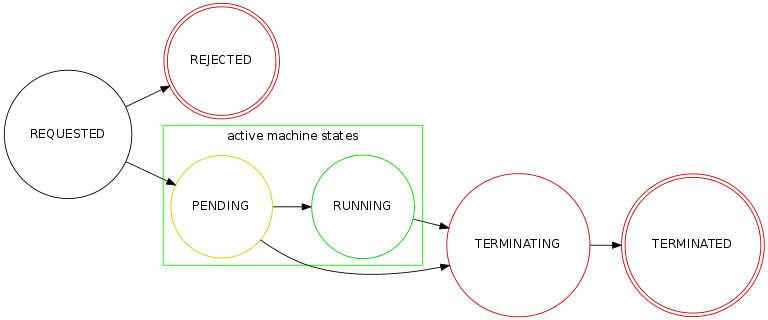
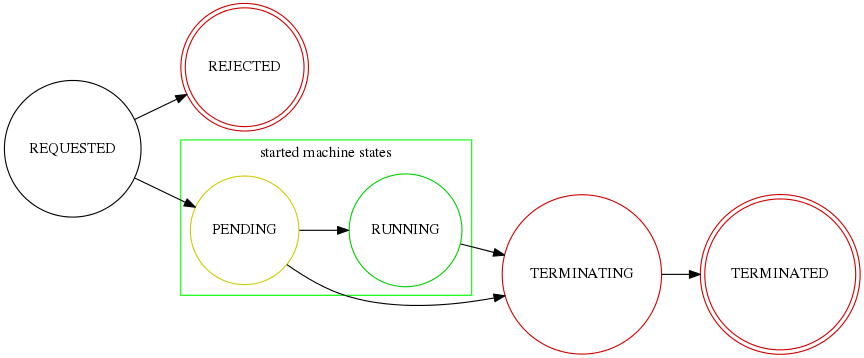
updated to version 3.0.0 of api

diff --git a/docs/conf.py b/docs/conf.py
@@ -51,9 +51,9 @@ copyright = u'2014, Elastisys AB'
 # built documents.
 #
 # The short X.Y version.
-version = '2.0.0'
+version = '3.0.0'
 # The full version, including alpha/beta/rc tags.
-release = '2.0.0'
+release = '3.0.0'
 
 # The language for content autogenerated by Sphinx. Refer to documentation
 # for a list of supported languages.

diff --git a/docs/api.rst b/docs/api.rst
@@ -33,6 +33,10 @@ The logical group of machines that a cloud pool manages is referred to
 as its **machine pool**.
 
 
+.. _machine_state:
+
+machine state
+*************
 A cloud pool needs to be able to report the execution state of its machine 
 pool members in a cloud-neutral manner (see :ref:`get_machine_pool`). 
 Since cloud providers differ quite a lot in the state models they use, the 
@@ -66,29 +70,87 @@ The diagram below illustrates the state transitions that describe the lifecycle 
 a machine.
 
 .. image:: images/machinestates.png
-  :width: 700px
+  :width: 800px
 
-The ``PENDING`` and ``RUNNING`` states are said to be the *active machine 
-states*. Machines in an active state are executing. However, just because a machine 
-is active doesn't necessarily mean that it is doing useful work. For example, it may
+The ``PENDING`` and ``RUNNING`` states are said to be the *started machine 
+states*. Machines in a started state are executing. However, just because a machine 
+is executing doesn't necessarily mean that it is doing useful work. For example, it may
 have failed to properly boot, it may have crashed or encountered a fatal bug.
 
+So the machine state is the execution state of the machine, as reported by the cloud
+API, which really only tells us if a particular pool member is started or not.
+To be able to reason about the *health* of a pool member, each machine's metadata 
+carries two additional state fields -- the :ref:`membership_status` and the :ref:`service_state`.
+These states are intended to be set by external means, such as by a human operator
+or an external health monitoring service. A cloud pool is required to be ready to receive 
+state updates these fields (see :ref:`set_membership_status` and :ref:`set_service_state`)
+for the machines its pool and to include those states on subsequent queries about 
+the pool members (:ref:`get_machine_pool`).
+
+
+.. _membership_status:
+
+membership status
+*****************
+The **membership status** is used to indicate to the cloud pool that a certain
+machine needs to be given special treatment. The membership status can, for 
+example, be set to protect a machine from being terminated (by setting its 
+evictability) or to mark a machine as being in need of replacement (by setting 
+its activity flag). This allows us, for example, to isolate a failed machine for 
+further inspection and to provision a replacement to sustain sufficient capacity.
+It also allows us to have "blessed"/"seed" pool members that may not be 
+terminated. See the :ref:`set_membership_status` method for more deatils.
+
+The ``active`` and ``evictable`` fields of the membership status can be combined
+according to the table below to produce four main membership states:
+
+
++-------------------+------------+------------------+ 
+|                   | **active** | **not active**   |
++===================+============+==================+ 
+| **evictable**     | default    | disposable       | 
++-------------------+------------+------------------+ 
+| **not evictable** | blessed    | awaiting service | 
++-------------------+------------+------------------+ 
+
+
+
+  - ``default``: a machine that is both an active and evictable group member.
+
+  - ``blessed``: a machine that is a permanent pool member that cannot be 
+    evicted. This can, for example, be used to include `reserved machine 
+    instances <http://aws.amazon.com/ec2/purchasing-options/reserved-instances/>`_
+    in the pool.
+
+  - ``awaiting service``: a machine that is in need of service. The machine
+    is to be replaced and should be kept alive for troubleshooting.
+
+  - ``disposable``: a machine that is non-functioning and should be replaced 
+    and terminated.
+
+
+At any time, the *active size* of the cloud pool should be interpreted as the
+number of allocated machines that have not been marked with an inactive membership 
+status. That is, all machines in one of the machine states ``REQUESTED``, ``PENDING``, 
+or ``RUNNING`` and *not* having a membership status with ``active`` set to ``false``.
+
+
+
+
+.. _service_state:
+
+service state
+*************
 There are cases where we need to be able to reason about the operational state of
 the service running on the machine. For example, we may not want to register a running
-machine to a load balancer until it is fully initialized and ready to accept requests.
-To this end, a cloud pool may include a :ref:`service state <service_state_table>` 
-for a machine. Whereas the `machine state` should be viewed  as the execution 
-state of the machine as reported by the cloud API, the **service state** of a machine
-is the operational health of the service running on the machine.
-
-A cloud pool does not need to monitor the service state (health) of its machines,
-although it could. However, a cloud pool is required to be ready to receive 
-service state updates (see :ref:`set_service_state`) for the machines in its pool 
-and to include those states on subsequent queries about the pool members 
-(:ref:`get_machine_pool`). A human operator or an external monitoring service should 
-be able to set the service state for a certain machine. In case no service state
-has been reported for a machine, the cloud pool should report the machine as being
-in a service state of ``UNKNOWN``.
+machine to a load balancer until it is fully initialized and ready to accept requests, and
+we may want to unregister unhealthy machines. To this end, a cloud pool may include 
+a **service state** for a machine. Whereas the *machine state*
+should be viewed  as the execution state of the *machine*, 
+the *service state* should be viewed as the operational health of the 
+*service running on the machine*. Service states have no semantic implications to the
+cloud pool. They should be regarded as informational "marker states" that may be used
+by third party services (such as a load balancer).
 
 The range of permissible service states are as follows:
 
@@ -104,31 +166,14 @@ The range of permissible service states are as follows:
 +---------------------+---------------------------------------------------------------------+
 | ``UNHEALTHY``       | The service is not functioning properly (health checks fail).       |
 +---------------------+---------------------------------------------------------------------+
-| ``OUT_OF_SERVICE``  | The service is unhealthy and is in need of repair. It should be     |
-|                     | considered out of service and not able to accept work until it      |
-|                     | has recovered. When this service state is set for a machine, a      |  
-|                     | replacement instance will be launched, as the machine is no         |
-|                     | longer considered part of the active machine pool (even if it is    |
-|                     | in machine state ``RUNNING``).                                      |
+| ``OUT_OF_SERVICE``  | The service is unhealthy and has been taken out of service for      |
+|                     | troubleshooting and/or repair.                                      |
 +---------------------+---------------------------------------------------------------------+
 | ``UNKNOWN``         | The service state of the machine cannot be (or has not yet been)    |
 |                     | determined.                                                         |
 +---------------------+---------------------------------------------------------------------+
 
-The ``OUT_OF_SERVICE`` state marks a machine pool member as being taken out of service
-and awaiting troubleshooting. The cloud pool should take measures to ensure that
-a replacement machine is launched for any out-of-service machine.
-
-Except for the ``OUT_OF_SERVICE`` state, service states are only informational 
-"marker states" that, for example, can be used to monitor service health and
-register machines with a load balancer as they become ``IN_SERVICE`` and unregister
-them when in state ``UNHEALTHY`` or ``OUT_OF_SERVICE``.
-
-At any time, the *effective size* of the machine pool should be interpreted as the
-number of allocated machines that have not been marked out-of-service (awaiting 
-troubleshooting/repair). That is, all machines in one of the machine states 
-``REQUESTED``, ``PENDING``, or ``RUNNING`` and *not* being in service state 
-``OUT_OF_SERVICE``.
+See the :ref:`set_service_state` method for more deatils.
 
 
 
@@ -144,13 +189,24 @@ Get machine pool
   
   - **Method**: ``GET /pool``
   - **Description**: Retrieves the current machine pool members.
-    
-    Note that the returned machines may be in any :ref:`machine state <machine_state_table>`
-    (``REQUESTED``, ``RUNNING``, ``TERMINATED``, etc). The machines that are considered part of 
-    the active pool are machines in machine states ``REQUESTED``, ``PENDING`` or
-    ``RUNNING`` and that are *not* in service state ``OUT_OF_SERVICE``. The 
-    :ref:`service state <service_state_table>` should be reported as ``UNKNOWN`` for machine instances that have 
-    not had any service state reported (see :ref:`set_service_state`).
+
+    Note that the returned machines may be in any :ref:`machine_state`
+    (``REQUESTED``, ``RUNNING``, ``TERMINATED``, etc).
+
+    The :ref:`membership_status` of a started machine determines if
+    it is to be considered an active member of the pool.The *active size* 
+    of the machine pool should be interpreted as the number of allocated 
+    machines (in any of the non-terminal machine states ``REQUESTED``,
+    ``PENDING`` or ``RUNNING`` that have not been marked with an inactive
+    :ref:`membership_status`.
+
+    The :ref:`service_state` should be set to ``UNKNOWN`` for all machine instances 
+    for which no service state has been reported (see :ref:`set_service_state`).
+
+    Similarly, the :ref:`membership_status` should be set to the default 
+    (active, evictable) status for all machine instances for which no membership 
+    status has been reported (see :ref:`set_membership_status`).
+
   - **Input**: None
   - **Output**: 
       - On success: HTTP response code 200 with a :ref:`machine_pool_message`
@@ -218,18 +274,43 @@ Terminate machine
 
 
 
+.. _set_membership_status:
+
+Set membership status
+*********************
+
+  - **Method**: ``POST /pool/<machineId>/membershipStatus``
+  - **Description**:  Sets the :ref:`membership_status` of a given pool member.
+
+    The membership status for a machine can be set to protect the machine
+    from being terminated (by setting its evictability status) and/or to mark
+    a machine as being in need of replacement by flagging it as an inactive
+    pool member.
+
+    The specific mechanism to mark group members, which may depend on the 
+    features offered by the particular cloud API, is left to the 
+    implementation but could, for example, make use of tags.
+  - **Input**: A :ref:`set_membership_status_message`.
+  - **Output**:
+      - On success: HTTP response code 200 without message content.
+      - On error:    
+          - on illegal input: code 400 with an :ref:`error_response_message`
+          - if the machine is not a pool member: code 404 with an :ref:`error_response_message`
+          - otherwise: HTTP response code 500 with an :ref:`error_response_message`
+
+
 .. _set_service_state:
 
 Set service state
 *****************
 
   - **Method**: ``POST /pool/<machineId>/serviceState``
-  - **Description**:  Sets the service state of a machine pool member with
-    id ``<machineId>``. Setting the service state has no side-effects, unless 
-    the service state is set to ``OUT_OF_SERVICE``, in which case a replacement 
-    machine will (eventually) be launched since out-of-service machines are not 
-    considered effective members of the pool. An out-of-service machine can later 
-    be taken back into service by another call to this method to re-set its service state.
+  - **Description**: Sets the :ref:`service_state` of a given machine pool member. 
+ 
+    Setting the service state does not have any functional implications on the pool
+    member, but should be seen as way to supply operational information about
+    the service running on the machine to third-party services (such as load
+    balancers).
 
     The specific mechanism to mark group 
     members, which may depend on the features offered by the particular cloud 
@@ -354,6 +435,7 @@ Here, every ``<machine>`` is also a json document with the following structure: 
   {
     "id": <string>,
     "machineState": <machine state>,
+    "membershipStatus": {"active": bool, "evictable": bool},
     "serviceState": <service state>,
     "launchtime": <iso-8601 datetime>,
     "publicIps": [<ip-address>, ...],
@@ -364,11 +446,10 @@ Here, every ``<machine>`` is also a json document with the following structure: 
 The attributes are to be interpreted as follows:
   
   * ``id``: The identifier of the machine.
-  * ``machineState``: The execution state of the machine. See the 
-    :ref:`machine state table <machine_state_table>` for the range of possible values.
+  * ``machineState``: The execution state of the machine. See the section on :ref:`machine_state`.
+  * ``membershipStatus``: The :ref:`membership_status` of the machine.
   * ``serviceState``: The operational state of the service running on the machine.
-    See the :ref:`service state table <service_state_table>` for the range of 
-    possible values.
+    See the section on :ref:`service_state`.
   * ``launchtime``: The launch time of the machine if it has been launched. If the machine
     is in a state where it hasn't been launched yet (``REQUESTED`` state) this attribute
     may be left out or set to ``null``.
@@ -389,6 +470,7 @@ Below is a sample machine pool document: ::
       {
         "id": "i-123456",
         "machineState": "RUNNING",
+        "membershipStatus": {"active": true, "evictable": true},
         "serviceState": "IN_SERVICE",
         "launchtime": "2013-11-07T14:50:00.000Z",
         "publicIps": ["54.211.230.169"],
@@ -400,6 +482,7 @@ Below is a sample machine pool document: ::
       {
         "id": "i-123457",
         "machineState": "PENDING",
+        "membershipStatus": {"active": true, "evictable": true},
         "serviceState": "BOOTING",
         "launchtime": "2013-11-07T13:49:50.000Z",        
         "publicIps": [],
@@ -423,7 +506,7 @@ Pool size message
 | Description  | Carries information about the pool size, both                                         |
 |              | desired and actual size.                                                              |
 +--------------+---------------------------------------------------------------------------------------+
-| Schema       | ``{ "desiredSize": <number>, "allocated": <number>, "outOfService": <number> }``      |
+| Schema       | ``{ "desiredSize": <number>, "allocated": <number>, "active": <number> }``            |
 +--------------+---------------------------------------------------------------------------------------+
 
 The attributes are to be interpreted as follows:
@@ -431,12 +514,11 @@ The attributes are to be interpreted as follows:
   * ``desiredSize``: The last desired size set for the machine pool (see :ref:`set_desired_size`).
   * ``allocated``: The number of allocated machines in the pool (in one of 
     machine states ``REQUESTED``, ``PENDING``, ``RUNNING``)
-  * ``outOfService``: The number of machines in the pool that are marked with 
-    a ``OUT_OF_SERVICE`` service state.
+  * ``active``: The number of machines in the pool with an ``active`` :ref:`membership_status`.
 
 Example: ::
 
-   { "desiredSize": 3, "allocated": 4, "outOfService": 1 }
+   { "desiredSize": 3, "allocated": 4, "active": 3 }
 
 
 
@@ -487,6 +569,36 @@ The attributes are to be interpreted as follows:
 Example where a replacement machine is desired: ::
 
    { "decrementDesiredSize": false }
+
+
+
+.. _set_membership_status_message:
+
+Set membership status message
+*****************************
+
++--------------+-----------------------------------------------------------------+
+| Description  | Specifies the membership status for a machine.                  |
++--------------+-----------------------------------------------------------------+
+| Schema       | ``{ "membershipStatus": {"active": bool, "evictable": bool} }`` |
++--------------+-----------------------------------------------------------------+
+
+The attributes are to be interpreted as follows:
+  
+  * ``active``: Indicates if this is an active (working) pool member. A ``true``
+    value indicates that this machine is a functioning pool member. A
+    ``false`` value indicates that a replacement machine needs to be launched 
+    for this pool member.
+  * ``evictable``: Indicates if this machine is a blessed member of the
+    machine pool. That is, if this field is ``true``, the cloud pool may not 
+    select this machine for termination when pool needs to be scaled in.
+
+Example of a membership status for a broken machine that needs a replacement
+(``active`` == ``false``), but is to be kept around in the pool for troubleshooting
+(``evictable`` == ``false``): ::
+
+   { "membershipStatus": {"active": false, "evictable": false} }
+
 
 
 

diff --git a/docs/index.rst b/docs/index.rst
@@ -1,7 +1,7 @@
-elastisys:scale cloud pool REST API documentation (version 2.0)
+elastisys:scale cloud pool REST API documentation (version 3.0)
 ===============================================================
 
-This documentation covers version 2.0 of the REST API that all 
+This documentation covers version 3.0 of the REST API that all 
 `elastisys:scale <http://elastisys.com/scale>`_ cloud pool endpoints
 are required to publish. 
 
